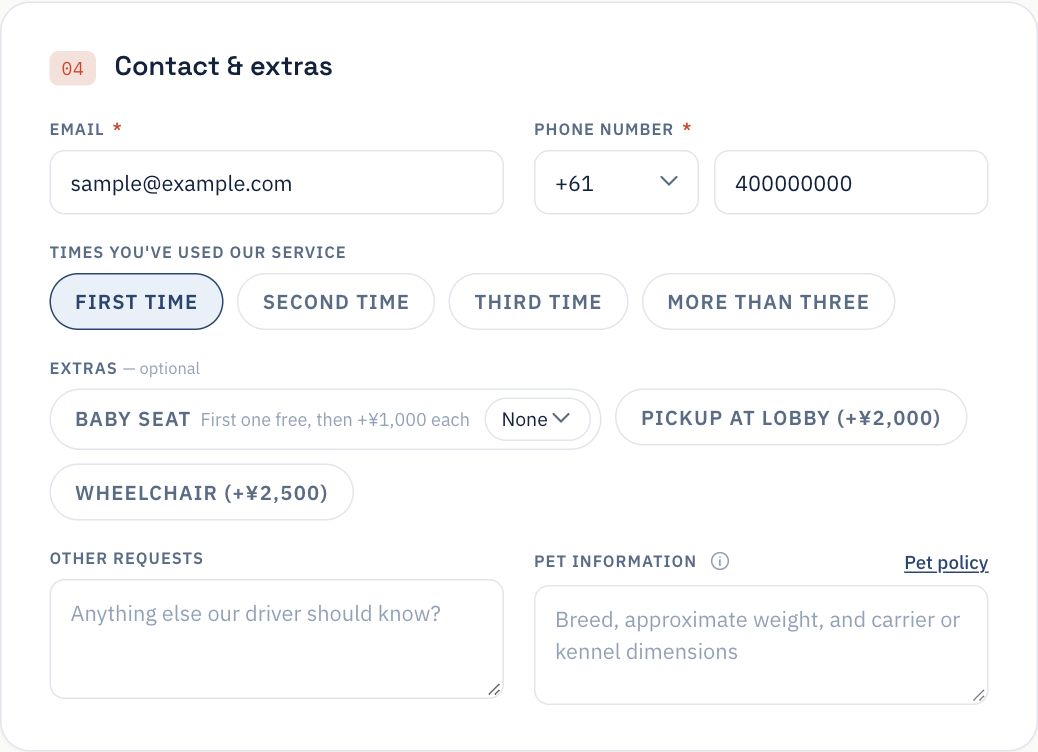
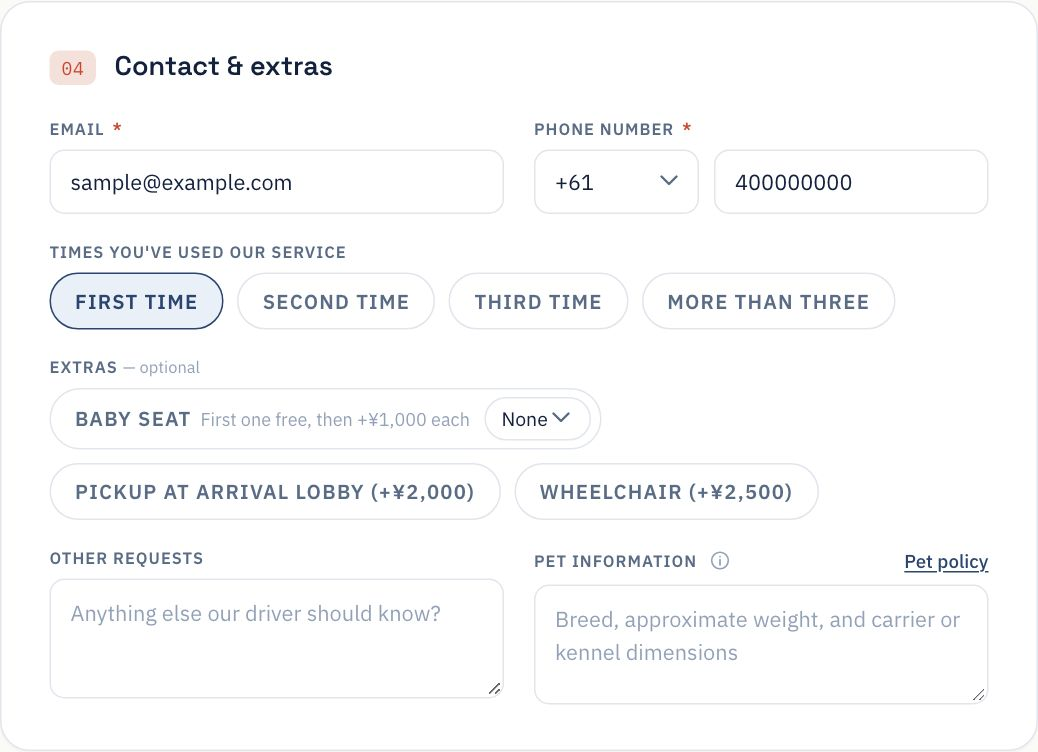
Merge Alphard 2.0 and 3.0 into Medium Car, set Grand Cabin to 9 seats
Client feedback, with three data migrations:
- merge-alphard-2-and-3-into-medium-car: the Alphard 2.0 class becomes Medium Car and the Alphard 3.0
  cars and bookings move into it. Customers get one Medium Car option (Toyota Alphard) at Alphard
  2.0's current surcharge (+¥1,000) instead of four Alphard 2.0/3.0 options, which are hidden.
  Bookings made as Alphard 2.0 or 3.0 point at Medium Car, so they can still be rescheduled; their
  vehicle label and price lines stay as booked.
- set-grand-cabin-capacity: every Grand Cabin seats 9 passengers and takes 9 suitcases, which About
  shows (one production car had 12).
- rename-pickup-at-lobby: the extra is now "Pickup at arrival lobby".

The About fleet card follows the new class (photo renamed to medium.jpg; the unused Alphard 2.0
photo is removed), and the How to Book screenshots for steps 3 and 4 are retaken with the new car
options and extra name.

diff --git a/apps/web/lib/content.ts b/apps/web/lib/content.ts
@@ -488,7 +488,7 @@ export const FLEET_SECTION = {
 
 /**
  * One card per fleet class (vehicle_classes.code). Seats, suitcases and extra costs come from the API.
- * text: null until the client describes the car (Alphard 2.0 / 3.0 / 4.0).
+ * text: null until the client describes the car.
  */
 export const FLEET: { classCode: string; name: string; models: string; text: string | null; photo: Photo }[] = [
   {
@@ -499,18 +499,11 @@ export const FLEET: { classCode: string; name: string; models: string; text: str
     photo: { src: "/site/fleet/standard.jpg", width: 329, height: 373, alt: "Black Nissan Serena", position: "50% 62%" },
   },
   {
-    classCode: "alphard-2",
-    name: "Alphard 2.0",
+    classCode: "medium",
+    name: "Medium Car",
     models: "Toyota Alphard",
     text: null,
-    photo: { src: "/site/fleet/alphard-2.jpg", width: 900, height: 579, alt: "White Toyota Alphard 2.0, seen from the back", position: "50% 60%" },
-  },
-  {
-    classCode: "alphard-3",
-    name: "Alphard 3.0",
-    models: "Toyota Alphard",
-    text: null,
-    photo: { src: "/site/fleet/alphard-3.jpg", width: 568, height: 522, alt: "White Toyota Alphard 3.0, seen from the front", position: "50% 62%" },
+    photo: { src: "/site/fleet/medium.jpg", width: 568, height: 522, alt: "White Toyota Alphard, seen from the front", position: "50% 62%" },
   },
   {
     classCode: "alphard-4",
@@ -620,8 +613,8 @@ export const BOOKING_STEPS: {
       "How you'll pay: card, PayPal, bank transfer, or cash on arrival (+¥1,000).",
     ],
     alt: "Step 3 of the reservation form: Vehicle and payment",
-    wide: { src: "/how-to-book/step-3-wide.jpg", width: 1038, height: 1232, dots: [[1, 0, 13.8], [2, 0, 88.2]] },
-    narrow: { src: "/how-to-book/step-3-narrow.jpg", width: 700, height: 1810, dots: [[1, 0, 11.8], [2, 0, 82.7]] },
+    wide: { src: "/how-to-book/step-3-wide.jpg", width: 1038, height: 887, dots: [[1, 0, 19.1], [2, 0, 83.6]] },
+    narrow: { src: "/how-to-book/step-3-narrow.jpg", width: 700, height: 1320, dots: [[1, 0, 16.2], [2, 0, 76.3]] },
     ticketTip: true,
   },
   {
@@ -629,7 +622,7 @@ export const BOOKING_STEPS: {
     text: "How we reach you, and anything else you need.",
     callouts: [
       "Email and phone number: we use them to confirm your booking.",
-      "Extras: baby seat (the first one is free), pickup at the lobby, wheelchair.",
+      "Extras: baby seat (the first one is free), pickup at arrival lobby, wheelchair.",
       "Anything else, including details of a pet travelling with you.",
     ],
     alt: "Step 4 of the reservation form: Contact and extras",

diff --git a/apps/api/README.md b/apps/api/README.md
@@ -105,7 +105,7 @@ section 7.1 of the design doc.
 | POST | `/v1/admin/bookings/:id/cancel` | `new`, `confirmed` or `waitlisted` → `cancelled`; releases the held vehicle and the assigned vehicle and driver. Already cancelled → 409 |
 | POST | `/v1/quotes` | Public. Prices a trip from `airportId`, `serviceRegionId`, `vehicleTypeId`, `paymentMethodId`, `pickupDate`, `pickupTime` (Tokyo time) and optional `addOns: [{ addOnId, quantity }]`. Returns the line items, `totalJpy` and `quoteRequired` (then `totalJpy` is the "from" price). A past pickup, unknown ids or too many of an add-on → 422 |
 | POST | `/v1/quotes/rental` | Public. A car rental for an "Others" trip: `vehicleClassId`, `rentalHours` (1–12), `paymentMethodId`, `pickupDate`, `pickupTime`, optional `addOns`. Always `quoteRequired`: the rental line has no amount (staff quote it); extras and the payment fee are priced |
-| GET | `/v1/admin/vehicle-classes` | Standard car, Alphard 2.0, Alphard 3.0, Alphard 4.0, Grand Cabin, Bus (migration `revise-vehicle-categories` replaced Medium car with Alphard 2.0 / 3.0) |
+| GET | `/v1/admin/vehicle-classes` | Standard car, Medium Car, Alphard 4.0, Grand Cabin, Bus (migration `merge-alphard-2-and-3-into-medium-car` turned Alphard 2.0 and 3.0 back into Medium Car) |
 | GET, PATCH | `/v1/admin/settings` | Booking rules: `{ bufferMinutes }` (0–180), the time added after each booking's 3-hour hold before its car can take another booking. Everyone signed in reads; PATCH is admin only and applies to new bookings |
 | GET, POST | `/v1/admin/vehicles` | Plate is trimmed and uppercased; duplicate plate → 409 |
 | GET, PATCH, DELETE | `/v1/admin/vehicles/:id` | Deleting unassigns its usual driver; a vehicle that has bookings can't be deleted (409, retire it instead). Responses include `currentTrip` and `nextTrip`, derived from confirmed bookings |
